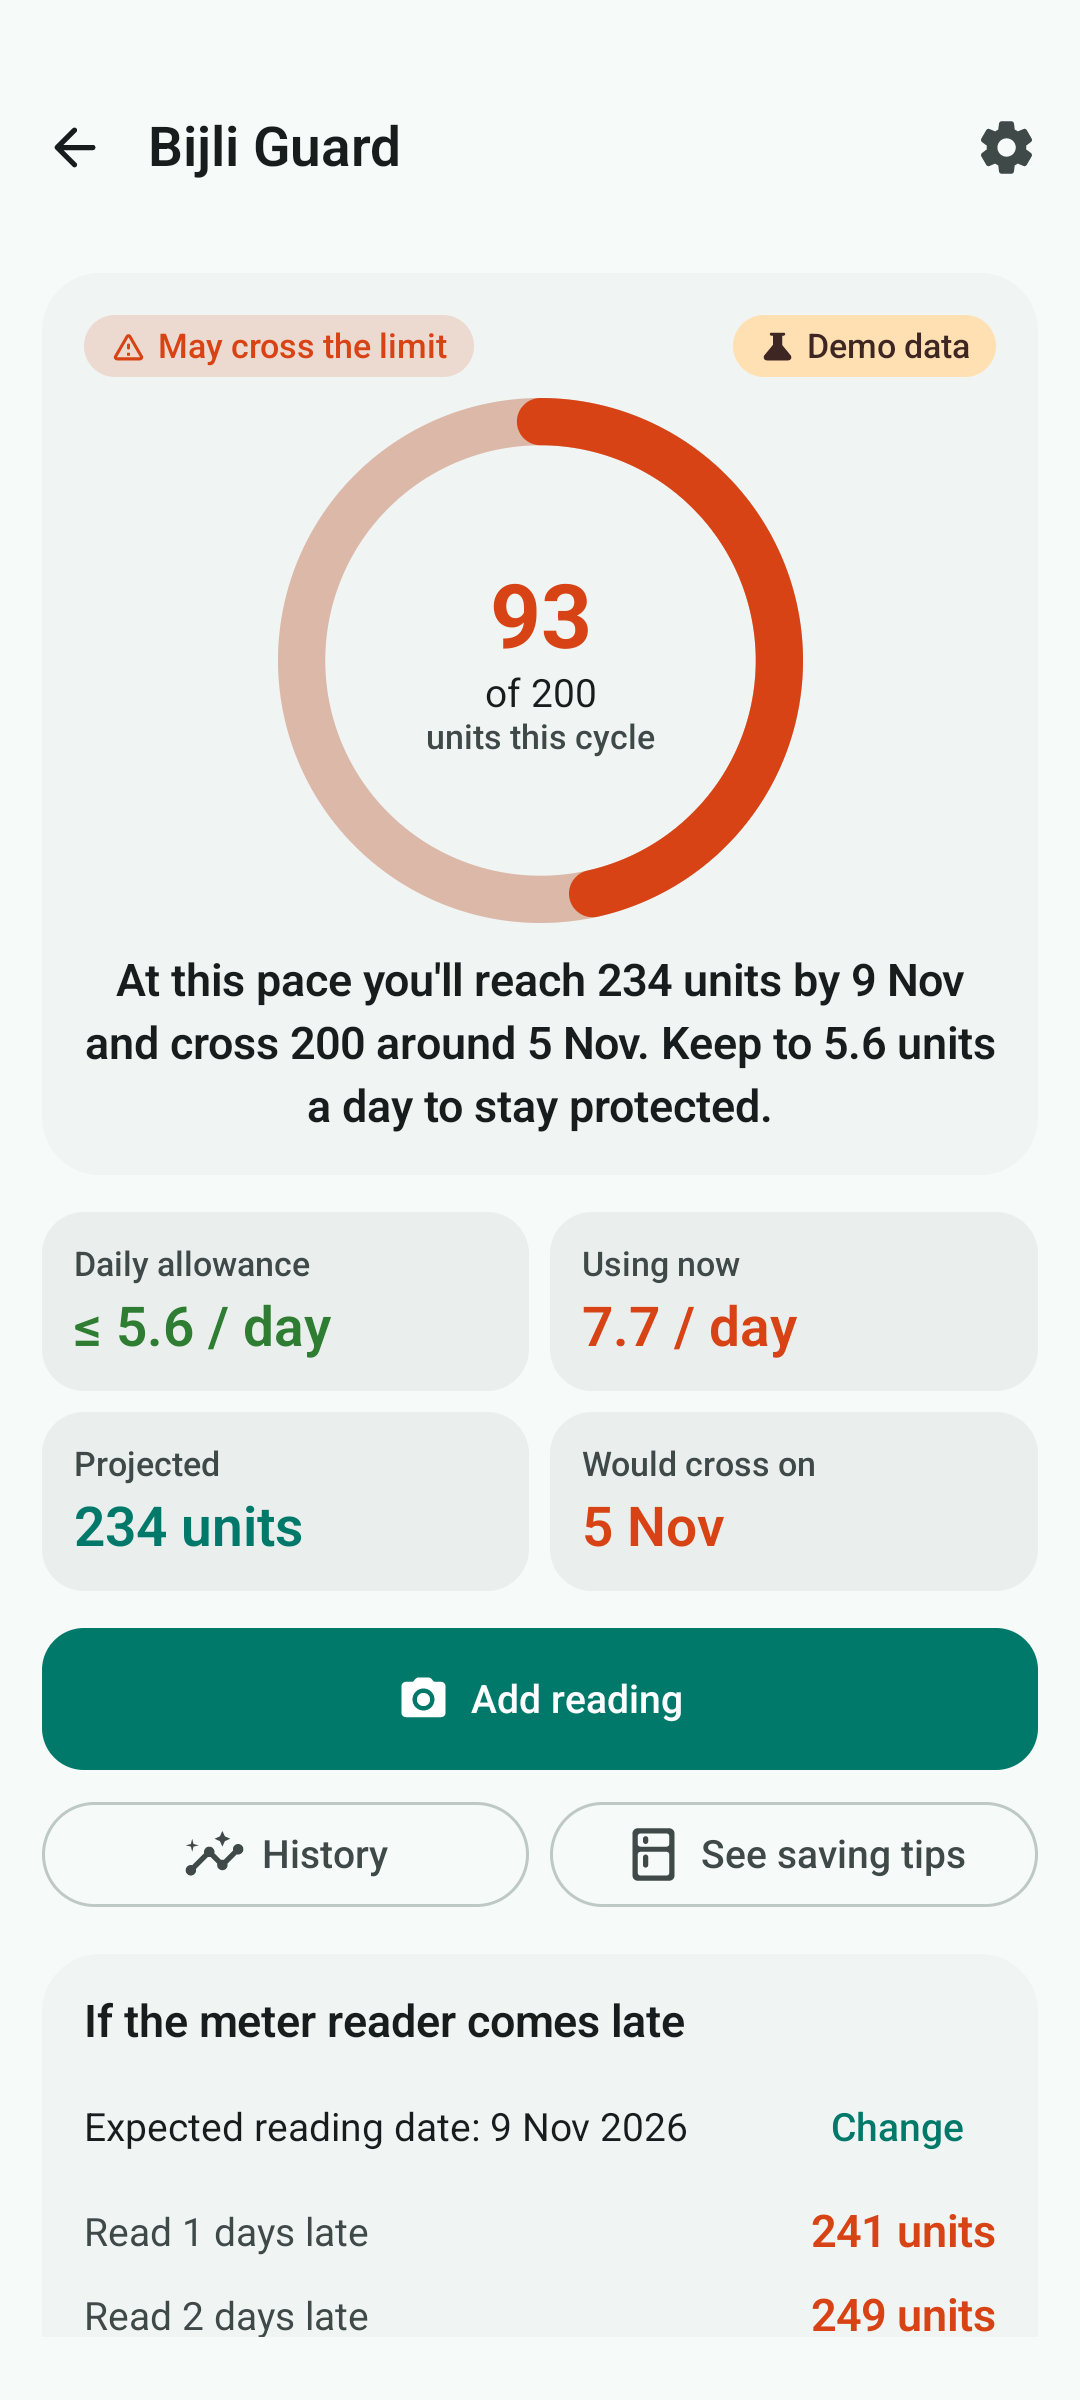
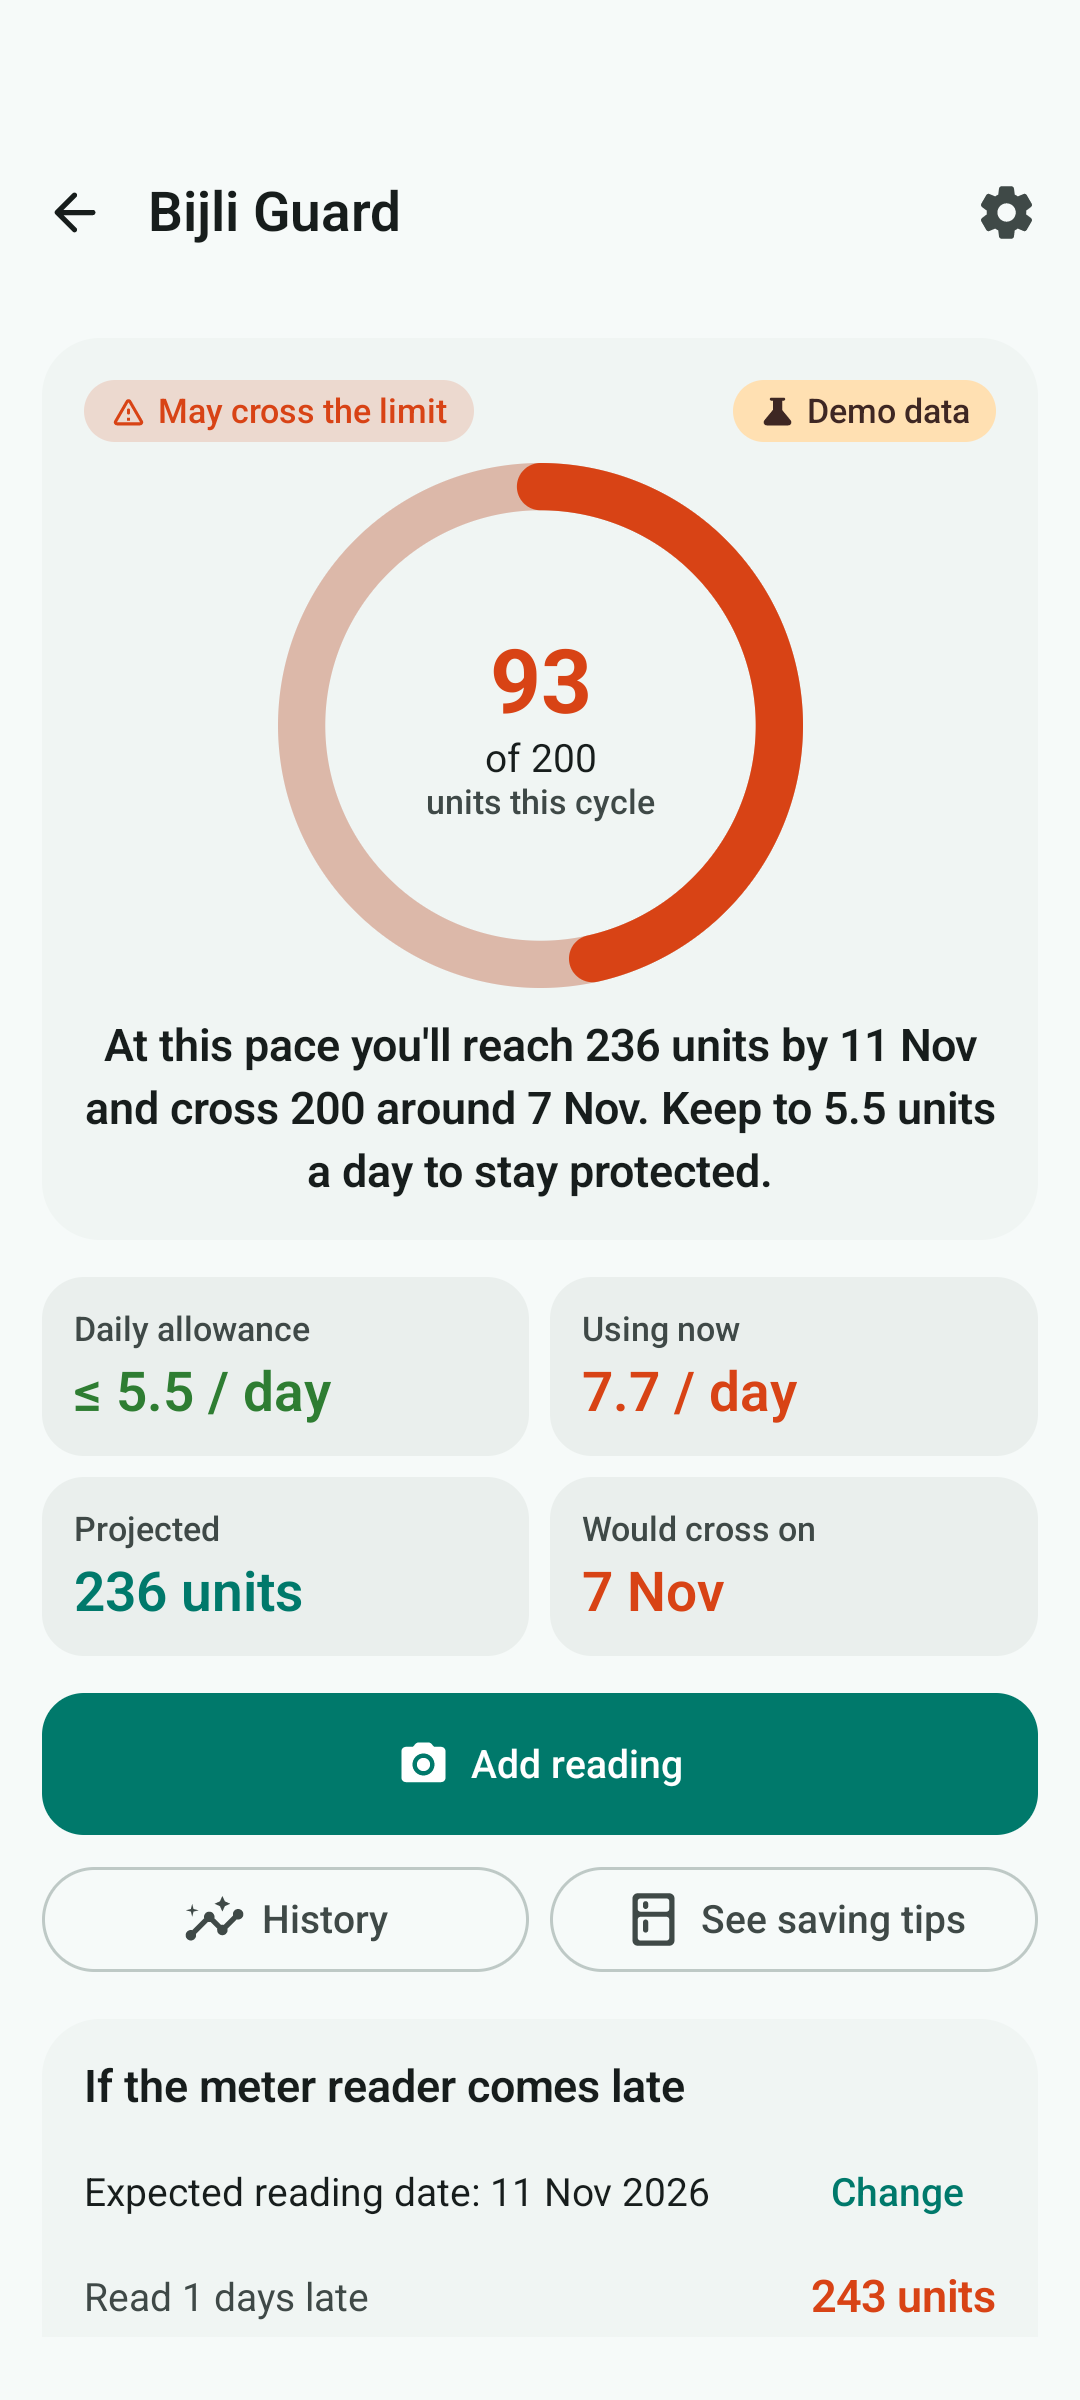
README screenshots: new look and colour choices

diff --git a/README.md b/README.md
@@ -6,9 +6,9 @@ Built for ILAP 2027 by a student of Beaconhouse BSS JTC, Lahore. Free, works off
 
 **[⬇ Download the latest APK](https://github.com/hashimfowad2010/easy-life/releases/latest/download/EasyLife.apk)** · [All releases](https://github.com/hashimfowad2010/easy-life/releases)
 
-| Today (demo data) | Bijli Guard | اردو میں |
-|---|---|---|
-| ![Today](docs/screenshots/en-today.png) | ![Bijli Guard](docs/screenshots/en-bijli-guard.png) | ![Urdu Today](docs/screenshots/ur-today.png) |
+| Today (demo data) | Bijli Guard | اردو میں | Your colours |
+|---|---|---|---|
+| ![Today](docs/screenshots/en-today.png) | ![Bijli Guard](docs/screenshots/en-bijli-guard.png) | ![Urdu Today](docs/screenshots/ur-today.png) | ![Colour choices](docs/screenshots/en-settings-colours.png) |
 
 *Screenshots are taken automatically by the emulator test in CI, using the app's fictional demo family.*
 
@@ -17,7 +17,7 @@ Built for ILAP 2027 by a student of Beaconhouse BSS JTC, Lahore. Free, works off
 ## What it does
 
 | Module | The problem | What Easy Life does |
-|---|---|---|
+|---|---|---|---|
 | ⚡ **Bijli Guard** (Limits) | Households that use 200 units or less a month for 6 months are "protected" and pay a much lower rate. One month over 200 loses that for 6 months. | Reads the bill and meter photos, projects the month's units, warns early ("At this pace you'll reach 234 units by 9 Nov. Keep to 5.6 units a day"), shows the money at stake, flags late meter readings, and suggests appliance changes. |
 | 🧾 **Bills** | Late fees and forgotten due dates. | Scan any utility/school bill, confirm the numbers, get reminders before the due date, see "Pay by 24 Oct to save Rs 538". |
 | 💰 **Budget** | People don't know where money goes, and banking apps aren't in Urdu. | Reads bank and wallet SMS on the phone (never bank passwords; OTPs are discarded at once), categories, budgets, exclusions (e.g. money sent to family), receipts. |
